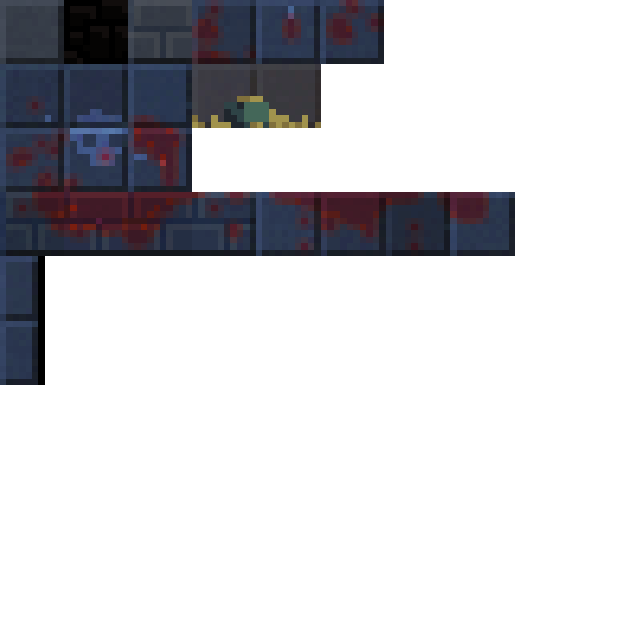
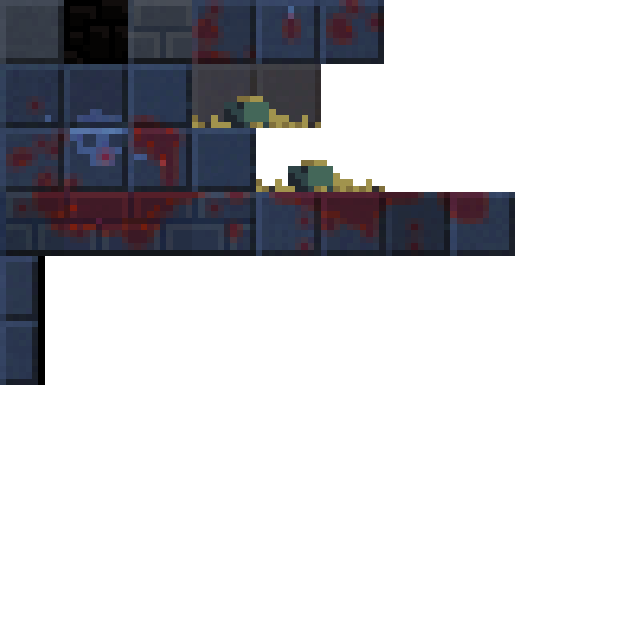
2022/11/13

Changed region(s): [[0.2812, 0.1875, 0.5938, 0.3125]]

diff --git a/scene.py b/scene.py
@@ -1,3 +1,5 @@
+from random import randint
+
 import pygame
 from pytmx.util_pygame import load_pygame
 
@@ -12,7 +14,6 @@ from sprites import GameObject
 from sprites import TextButton
 from sprites import Fog
 from support import custom_load
-from weapons import Pistol
 
 
 class Scene:
@@ -134,7 +135,10 @@ class PlayGround(Scene):
         self.map_edges = []
         self.map_floors = []
 
-        self.player = None
+        self.player_group = pygame.sprite.Group()
+
+        self.player_1 = None
+        self.player_2 = None
 
         # * 武器 * #
         # 武器只是一个跟随 player 移动的 surface
@@ -147,45 +151,50 @@ class PlayGround(Scene):
         Debug(True) << "Inited PlayGround" << "\n"
 
     def horizontal_movement_coll(self, dt):
-        player = self.player
+        for player in self.player_group:
 
-        player.rect.x += player.direction.x * dt * MOVEMENT_RATING
+            player.rect.x += player.direction.x * dt * MOVEMENT_RATING
 
-        for sprite in self.coll_rect_sprites:
-            if sprite.rect.colliderect(player.rect):
-                if player.direction.x < 0:
-                    player.rect.left = sprite.rect.right
-                elif player.direction.x > 0:
-                    player.rect.right = sprite.rect.left
+            for sprite in self.coll_rect_sprites:
+                if sprite.rect.colliderect(player.rect):
+                    if player.direction.x < 0:
+                        player.rect.left = sprite.rect.right
+                    elif player.direction.x > 0:
+                        player.rect.right = sprite.rect.left
 
     def vertical_movement_coll(self, dt):
-        player = self.player
-        player.apply_gravity()
+        for player in self.player_group:
+            player.apply_gravity()
 
-        player.rect.y += player.direction.y * dt * MOVEMENT_RATING
+            player.rect.y += player.direction.y * dt * MOVEMENT_RATING
 
-        for sprite in self.coll_rect_sprites:
-            if sprite.rect.colliderect(player.rect):
-                if player.direction.y > 0:
-                    player.rect.bottom = sprite.rect.top
-                    player.direction.y = 0
-                    player.jump_cnt = 0
-                    if not player.can_jump and not player.push_space:
-                        player.can_jump = True
-                        Debug(DEBUG_MODE) << "Player Enabled Jump" << "\n"
-                elif player.direction.y < 0:
-                    player.rect.top = sprite.rect.bottom
-                    player.direction.y = 0
-                    player.can_jump = False
+            for sprite in self.coll_rect_sprites:
+                if sprite.rect.colliderect(player.rect):
+                    if player.direction.y > 0:
+                        player.rect.bottom = sprite.rect.top
+                        player.direction.y = 0
+                        player.jump_cnt = 0
+                        if not player.can_jump and not player.push_space:
+                            player.can_jump = True
+                            Debug(DEBUG_MODE) << "Player Enabled Jump" << "\n"
+                    elif player.direction.y < 0:
+                        player.rect.top = sprite.rect.bottom
+                        player.direction.y = 0
+                        player.can_jump = False
 
     def move_weapon(self):
-        self.weapon.image = self.weapon.init_image
-        if self.player.face_direction == "left":
-            self.weapon.image = pygame.transform.flip(self.weapon.image, True, False)
-            self.weapon.rect.topright = self.player.rect.midleft
-        else:
-            self.weapon.rect.topleft = self.player.rect.midright
-        self.weapon.rect.y -= 5
+        for player in self.player_group:
+            player.weapon.image = player.weapon.init_image
+            if player.face_direction == "left":
+                player.weapon.image = pygame.transform.flip(player.weapon.image, True, False)
+                player.weapon.rect.topright = player.rect.midleft
+            else:
+                player.weapon.rect.topleft = player.rect.midright
+            player.weapon.rect.y -= 5
+            if player.face_direction == "right":
+                player.weapon.rect.x -= 5
+            else:
+                player.weapon.rect.x += 5
 
     def activate(self):
         super().activate()
@@ -209,7 +218,8 @@ class PlayGround(Scene):
         )
 
         # * Load Map Data * #
-        tmx_data = load_pygame(PATH_MAP_DU_DUST)
+        rand_map = randint(0, len(PATH_MAP)-1)
+        tmx_data = load_pygame(PATH_MAP[rand_map])
 
         for x, y, surf in tmx_data.get_layer_by_name("edge").tiles():
             self.map_edges.append(
@@ -242,12 +252,25 @@ class PlayGround(Scene):
             )
 
         # * Load Player * #
+        p1_skin = SKIN_DICT[randint(0, len(SKIN_DICT)-1)]
+        p2_skin = SKIN_DICT[randint(0, len(SKIN_DICT)-1)]
 
-        self.player = Player(layout.SCR_CENTER, self.all_sprites)
-        self.player.activate()
+        self.player_1 = Player(
+            start_pos=layout.SCR_CENTER,
+            group=[self.all_sprites, self.player_group],
+            player_keys={"jump": pygame.K_w, "left": pygame.K_a, "right": pygame.K_d},
+            skin=p1_skin
+        )
 
-        # * Load Weapon * #
-        self.weapon = Pistol([self.all_sprites])
+        self.player_2 = Player(
+            start_pos=layout.SCR_CENTER,
+            group=[self.all_sprites, self.player_group],
+            player_keys={"jump": pygame.K_UP, "left": pygame.K_LEFT, "right": pygame.K_RIGHT},
+            skin=p2_skin
+        )
+
+        for player in self.player_group:
+            player.activate()
 
         # * Load Fog * #
         self.fog_1 = Fog(

diff --git a/player.py b/player.py
@@ -5,6 +5,7 @@ from settings import *
 from path import *
 from utils import Debug
 from support import import_folder
+from weapons import Pistol
 
 
 class Player(pygame.sprite.Sprite):
@@ -12,12 +13,12 @@ class Player(pygame.sprite.Sprite):
     控制玩家的行为
     """
 
-    def __init__(self, start_pos, group):
+    def __init__(self, start_pos, group, player_keys, skin="p_pale"):
         super().__init__(group)
 
         # * 图像参数 * #
         self.display_surface = pygame.display.get_surface()
-        self.skin = "p_pale"
+        self.skin = skin
         self.animations = {}
         self.status = "idle"
         self.import_assets()
@@ -32,6 +33,7 @@ class Player(pygame.sprite.Sprite):
         self.rect = self.image.get_rect(center=start_pos)
 
         # * 移动参数 * #
+        self.player_keys = player_keys
         self.direction = pygame.math.Vector2(0, 0)
         self.speed = 8
         self.gravity = 0.8
@@ -42,6 +44,7 @@ class Player(pygame.sprite.Sprite):
 
         # * 其他 * #
         self.push_space = False
+        self.weapon = Pistol([self.groups()[0]])
 
         Debug(True) << "Inited Player" << "\n"
 
@@ -80,12 +83,12 @@ class Player(pygame.sprite.Sprite):
         keys = pygame.key.get_pressed()
 
         # * Horizontal Movement * #
-        if keys[pygame.K_a]:
+        if keys[self.player_keys["left"]]:
             self.status = "walk"
             self.face_direction = "left"
             self.direction.x = -1 * self.speed
 
-        elif keys[pygame.K_d]:
+        elif keys[self.player_keys["right"]]:
             self.status = "walk"
             self.face_direction = "right"
             self.direction.x = 1 * self.speed
@@ -94,7 +97,7 @@ class Player(pygame.sprite.Sprite):
             self.direction.x = 0
 
         # * Other Movement * #
-        if keys[pygame.K_SPACE]:
+        if keys[self.player_keys["jump"]]:
             self.push_space = True
             if self.can_jump:
                 self.jump(dt)

diff --git a/path.py b/path.py
@@ -14,8 +14,40 @@ PATH_EFFECT_FOG = r"./assets/special_effect/fog/"
 PATH_PLAYER = r"./assets/game/player/"
 
 # * Map * #
-PATH_MAP_DU_ARENA = r"./assets/game/map/du_arena/du_arena.tmx"
-PATH_MAP_DU_DUST = r"./assets/game/map/du_dust/du_dust.tmx"
+PATH_MAP = {
+    0: r"./assets/game/map/du_arena/du_arena.tmx",
+    1: r"./assets/game/map/du_dust/du_dust.tmx",
+    2: r"./assets/game/map/du_nefort/du_nefort.tmx",
+}
+
+# * Skin * #
+SKIN_DICT = {
+    0: "p_pale",
+    1: "p_hunter",
+    2: "p_ninja",
+    3: "p_hazmat",
+    4: "p_cream",
+    5: "p_robo",
+    6: "p_soldier",
+    7: "p_elder",
+    8: "p_dancer",
+    9: "p_knight",
+    10: "p_clops",
+    11: "p_crown",
+    12: "p_rogue",
+    13: "p_agent",
+    14: "p_riot",
+    15: "p_farmer",
+    16: "p_zombie",
+    17: "p_bear",
+    18: "p_reaper",
+    19: "p_pumpkin",
+    20: "p_wizard",
+}
+
+SPECIAL_SKIN_DICT = {
+    0: "p_kun"
+}
 
 # * Weapon * #
 PATH_WEAPON_GUN_COMMON = r"./assets/game/weapon/gun/common/"
